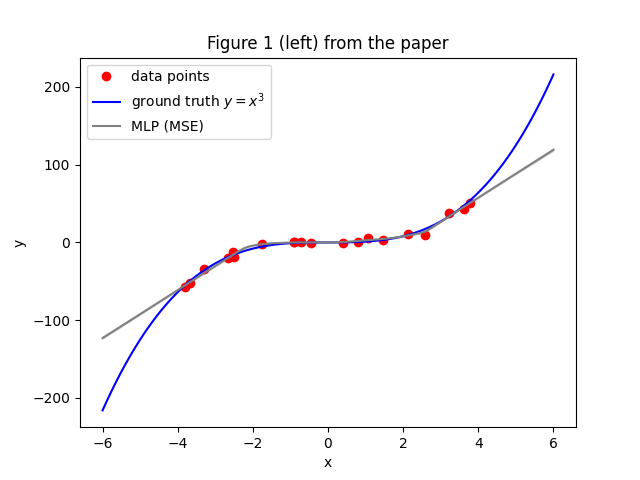
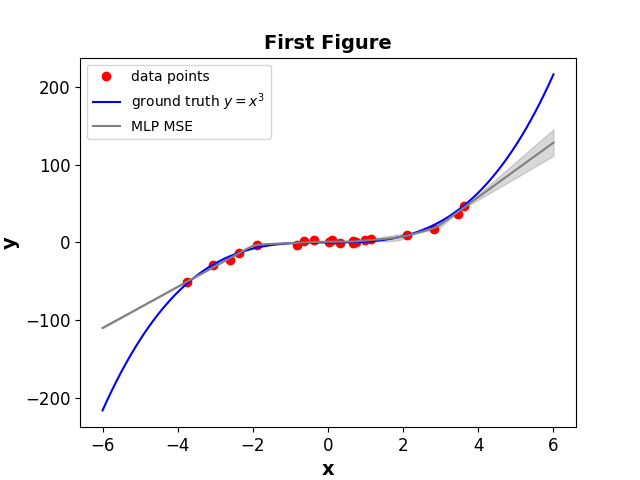
update

diff --git a/deep_ensembles/toy_data/nn_nll_ensemble.py b/deep_ensembles/toy_data/nn_nll_ensemble.py
@@ -6,6 +6,7 @@ from deep_ensembles.models.gm_mlp import GaussianMixtureMLP
 from deep_ensembles.params.TrainingParameters import TrainingParameters
 from deep_ensembles.toy_data.data_generator import generate_data
 from losses.nll import NLLloss
+from plotting.Plotter import Plotter
 
 
 def train_model_step(model, optimizer, x, y):
@@ -29,7 +30,10 @@ def train_gmm_step(gmm, optimizers, x, y):
 
 
 if __name__ == "__main__":
-    xx, yy, x, y = generate_data(points=20, xrange=(-4, 4), std=3.0)
+    plotter = Plotter()
+    noisy_points_x, noisy_points_y, x, y = generate_data(
+        points=20, xrange=(-4, 4), std=3.0
+    )
 
     gmm = GaussianMixtureMLP(num_models=5, hidden_layers=[100])
     gmm_optimizers = []
@@ -44,65 +48,20 @@ if __name__ == "__main__":
             )
         )
     for epoch in range(TrainingParameters.epochs):
-        losses = train_gmm_step(gmm, gmm_optimizers, xx, yy)
+        losses = train_gmm_step(gmm, gmm_optimizers, noisy_points_x, noisy_points_y)
         if epoch == 0:
             print("inital losses: ", losses)
     print("final losses: ", losses)
 
-    means = []
-    variances = []
-    for i in range(gmm.num_models):
-        model = getattr(gmm, "model_" + str(i))
-        mean, var = model(torch.tensor(x).float())
-        mean = mean.detach().numpy()
-        var = var.detach().numpy()
-        means.append(mean)
-        variances.append(var)
-        std = np.sqrt(var)
-        plt.plot(x, mean, label="GMM (NLL) " + str(i + 1), alpha=0.5)
-        plt.fill_between(
-            x.reshape(
-                100,
-            ),
-            (mean - std).reshape(
-                100,
-            ),
-            (mean + std).reshape(
-                100,
-            ),
-            alpha=0.1,
-        )
-    plt.plot(x, y, label="ground truth $y=x^3$", color="b")
-    plt.plot(xx.numpy(), yy.numpy(), "or", label="data points")
-    plt.title("Outputs of the network in the ensemble")
-    plt.xlabel("x")
-    plt.ylabel("y")
-    plt.close()
-
     mean, var = gmm(torch.tensor(x).float())
-    mean = mean.detach().numpy()
-    var = var.detach().numpy()
-    std = np.sqrt(var)
-
-    plt.fill_between(
-        x.reshape(
-            100,
-        ),
-        (mean - std).reshape(
-            100,
-        ),
-        (mean + std).reshape(
-            100,
-        ),
-        color="grey",
-        alpha=0.3,
-        label="$\sigma$",
+    plotter.plot_deep_ensemble_toy_data(
+        noisy_points_x=noisy_points_x.numpy(),
+        nosy_points_y=noisy_points_y.numpy(),
+        ground_truth_x=x,
+        ground_truth_y=y,
+        prediction_mean=mean.detach().numpy(),
+        prediction_variance=var.detach().numpy(),
+        label="GMLP NLL-Ensemble",
+        title="Fourth Figure",
+        file_name="deep_ensembles/plots/toy_data/nll_ensemble.png",
     )
-    plt.plot(x, mean, label="GMM mean (NLL)", color="grey")
-    plt.plot(x, y, "b", label="ground truth $y=x^3$")
-    plt.plot(xx.numpy(), yy.numpy(), "or", label="data points")
-    plt.xlabel("x")
-    plt.ylabel("y")
-    plt.title("Figure 1 (right) from the paper")
-    plt.legend()
-    plt.savefig("deep_ensembles/plots/toy_data/nll_ensemble.png")

diff --git a/deep_ensembles/toy_data/nn_mse_ensemble.py b/deep_ensembles/toy_data/nn_mse_ensemble.py
@@ -1,14 +1,16 @@
 import torch
 import torch.nn as nn
 import numpy as np
-import matplotlib.pyplot as plt
 from deep_ensembles.models.mlp import MLP
 from deep_ensembles.params.TrainingParameters import TrainingParameters
 from deep_ensembles.toy_data.data_generator import generate_data
+from plotting.Plotter import Plotter
 
 if __name__ == "__main__":
-
-    xx, yy, x, y = generate_data(points=20, xrange=(-4, 4), std=3.0)
+    plotter = Plotter()
+    noisy_points_x, noisy_points_y, x, y = generate_data(
+        points=20, xrange=(-4, 4), std=3.0
+    )
     mlps = []
     mlp_optimizers = []
     mlp_criterion = nn.MSELoss()
@@ -26,37 +28,27 @@ if __name__ == "__main__":
         print("Training network ", i + 1)
         for epoch in range(TrainingParameters.epochs):
             mlp_optimizers[i].zero_grad()
-            mlp_loss = mlp_criterion(yy, net(xx))
+            mlp_loss = mlp_criterion(noisy_points_y, net(noisy_points_x))
             if epoch == 0:
                 print("initial loss: ", mlp_loss.item())
             mlp_loss.backward()
             mlp_optimizers[i].step()
         print("final loss: ", mlp_loss.item())
-
-    plt.plot(xx.numpy(), yy.numpy(), "or", label="data points")
-    plt.plot(x, y, "b", label="ground truth $y=x^3$")
     ys = []
     for net in mlps:
         ys.append(net(torch.tensor(x).float()).detach().numpy())
     ys = np.array(ys)
     mean = np.mean(ys, axis=0)
-    std = np.std(ys, axis=0)
-    plt.plot(x, mean, label="MLP (MSE)", color="grey")
-    plt.fill_between(
-        x.reshape(
-            100,
-        ),
-        (mean - std).reshape(
-            100,
-        ),
-        (mean + std).reshape(
-            100,
-        ),
-        color="grey",
-        alpha=0.3,
+    var = np.std(ys, axis=0) ** 2
+
+    plotter.plot_deep_ensemble_toy_data(
+        noisy_points_x=noisy_points_x.numpy(),
+        nosy_points_y=noisy_points_y.numpy(),
+        ground_truth_x=x,
+        ground_truth_y=y,
+        prediction_mean=mean,
+        prediction_variance=var,
+        label="MLP MSE",
+        title="First Figure",
+        file_name="deep_ensembles/plots/toy_data/mse_ensemble.png",
     )
-    plt.xlabel("x")
-    plt.ylabel("y")
-    plt.title("Figure 1 (left) from the paper")
-    plt.legend()
-    plt.savefig("deep_ensembles/plots/toy_data/mse_ensemble.png")

diff --git a/plotting/Plotter.py b/plotting/Plotter.py
@@ -1,0 +1,65 @@
+import numpy as np
+import matplotlib.pyplot as plt
+import matplotlib.pylab as pylab
+from dataclasses import dataclass
+
+import logging
+
+logging.basicConfig(level=logging.INFO)
+
+
+# *********************
+# Plots Palette and Styles
+# *********************
+params = {
+    "axes.labelsize": 14,
+    "axes.labelweight": "bold",
+    "xtick.labelsize": 12,
+    "ytick.labelsize": 12,
+    "axes.titlesize": 14,
+    "axes.titleweight": "bold",
+}
+pylab.rcParams.update(params)
+
+
+@dataclass
+class Plotter:
+    def __init__(self):
+        self.logger = logging.getLogger("Plotter")
+
+    def plot_deep_ensemble_toy_data(
+        self,
+        noisy_points_x: np.array,
+        nosy_points_y: np.array,
+        ground_truth_x: np.array,
+        ground_truth_y: np.array,
+        prediction_mean: np.array,
+        prediction_variance: np.array,
+        label: str,
+        title: str,
+        file_name: str,
+    ):
+        std = np.sqrt(prediction_variance)
+
+        self.logger.info("Average Std: {:.2f}".format(std.mean()))
+        plt.plot(noisy_points_x, nosy_points_y, "or", label="data points")
+        plt.plot(ground_truth_x, ground_truth_y, "b", label="ground truth $y=x^3$")
+        plt.plot(ground_truth_x, prediction_mean, "grey", label=label)
+        plt.fill_between(
+            ground_truth_x.reshape(
+                100,
+            ),
+            (prediction_mean - 3 * std).reshape(
+                100,
+            ),
+            (prediction_mean + 3 * std).reshape(
+                100,
+            ),
+            color="grey",
+            alpha=0.3,
+        )
+        plt.xlabel("x")
+        plt.ylabel("y")
+        plt.title(title)
+        plt.legend()
+        plt.savefig(file_name)

diff --git a/deep_ensembles/toy_data/nn_nll_single_at.py b/deep_ensembles/toy_data/nn_nll_single_at.py
@@ -14,7 +14,7 @@ if __name__ == "__main__":
     gmlp_optimizer = torch.optim.Adam(
         params=gmlp.parameters(), lr=TrainingParameters.learning_rate
     )
-
+    noisy_points_x.requires_grad = True
     for epoch in range(TrainingParameters.epochs):
         gmlp_optimizer.zero_grad()
         mean, var = gmlp(noisy_points_x)
@@ -22,20 +22,27 @@ if __name__ == "__main__":
 
         if epoch == 0:
             print("initial loss: ", gmlp_loss.item())
+        gmlp_loss.backward(retain_graph=True)
+        data_grad = noisy_points_x.grad.data
+        sign_grad = data_grad.sign()
+        perturbed_data = noisy_points_x + TrainingParameters.epsilon * sign_grad
+        mean_new, var_new = gmlp(perturbed_data)
+        gaussian_loss_new = NLLloss(noisy_points_y, mean_new, var_new)
+        gmlp_loss += gaussian_loss_new
+        gmlp.zero_grad()
         gmlp_loss.backward()
         gmlp_optimizer.step()
     print("final loss: ", gmlp_loss.item())
-
     mean, var = gmlp(torch.tensor(x).float())
 
     plotter.plot_deep_ensemble_toy_data(
-        noisy_points_x=noisy_points_x.numpy(),
+        noisy_points_x=noisy_points_x.detach().numpy(),
         nosy_points_y=noisy_points_y.numpy(),
         ground_truth_x=x,
         ground_truth_y=y,
         prediction_mean=mean.detach().numpy(),
         prediction_variance=var.detach().numpy(),
-        label="GMLP NLL",
-        title="Second Figure",
-        file_name="deep_ensembles/plots/toy_data/nll_single.png",
+        label="GMLP NLL-AT",
+        title="Third Figure",
+        file_name="deep_ensembles/plots/toy_data/nll_single_at.png",
     )

diff --git a/losses/nll.py b/losses/nll.py
@@ -3,4 +3,4 @@ import torch
 
 def NLLloss(y, mean, var):
     """Negative log-likelihood loss function."""
-    return (torch.log(var) + ((y - mean).pow(2)) / var).sum()
+    return ((torch.log(var) / 2) + ((y - mean) ** 2) / (2 * var)).sum()

diff --git a/deep_ensembles/params/TrainingParameters.py b/deep_ensembles/params/TrainingParameters.py
@@ -10,3 +10,6 @@ class TrainingParameters:
 
     learning_rate = 0.1
     epochs = 200
+
+    # for adversarial example
+    epsilon = 0.02
